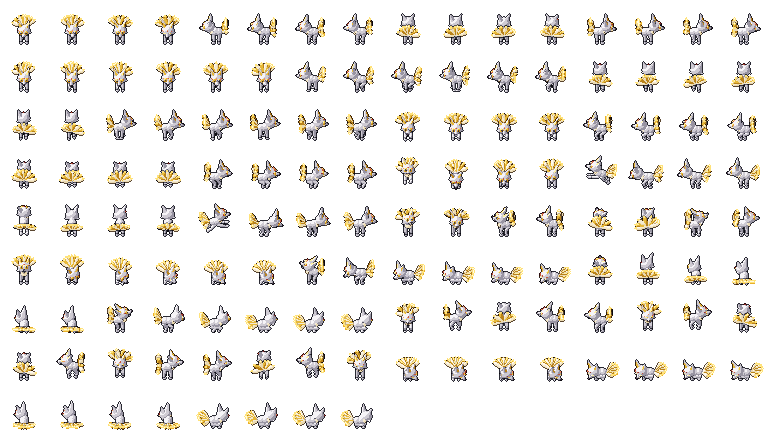
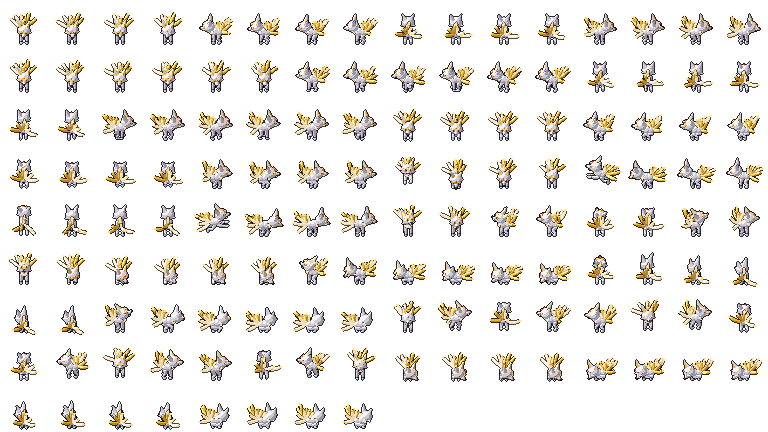
Toán tu tiên: Cửu Vĩ Hồ - chín đuôi xòe riêng từng chiếc khi nhìn nghiêng, xòe công phía sau, chân gập khuỷu

diff --git a/art/src/beasts_b/cuu_vi_ho.py b/art/src/beasts_b/cuu_vi_ho.py
@@ -18,22 +18,26 @@ from mathutils import Vector
 from common import (S, att, aim, ball, cute_eyes, eye_mats, eyes_bone, finish, glow, hexc, mat, merge,
                     quad_armature, quad_extra_poses, quad_poses, set_ramp, skin, tube, use_collection)
 
-N_TAILS = 9
-FAN = [-92 + 184 * k / (N_TAILS - 1) for k in range(N_TAILS)]     # degrees from straight up
+# (elevation above the back line, sideways angle, length): a three-dimensional fan. In profile
+# the elevations spread the tips from ~20 to ~110 degrees; from the front the low tails reach
+# far out to the sides and the high ones stay short behind the head (a peacock spread).
+TAILS = [(12, -62, 0.46), (22, 62, 0.43), (37, -42, 0.42), (48, 42, 0.45), (62, -26, 0.37),
+         (73, 26, 0.34), (87, -12, 0.30), (99, 12, 0.31), (115, 0, 0.26)]
+N_TAILS = len(TAILS)
 BASE = Vector((0, 0.11, 0.33))
 
 
-def tail_points(a_deg):
-    """Base, knee, end of the fluffy part and the glowing tip of a tail fanned at a_deg."""
-    a = math.radians(a_deg)
-    f = Vector((math.sin(a), 0, math.cos(a)))
-    d1 = (0.3 * f + Vector((0, 0.85, 0.42))).normalized()      # all leave the rump back-up as one bundle
-    d2 = (0.9 * f + Vector((0, 0.25, 0.3))).normalized()      # then open into a sunburst behind the head
-    d3 = (0.85 * f + Vector((0, 0.05, 0.5))).normalized()     # and the tips curl up
-    p1 = BASE + d1 * 0.12
-    p2 = p1 + d2 * 0.22
-    p3 = p2 + d3 * 0.10
-    return BASE.copy(), p1, p2, p3
+def tail_points(e_deg, phi_deg, length, n=6):
+    """Points along one tapered brush: it leaves the rump flatter and curls up toward its
+    own tip (elevation -14 -> +12 degrees along it), opening sideways as it goes."""
+    pts = [BASE.copy()]
+    for k in range(1, n):
+        t = k / (n - 1)
+        e = math.radians(e_deg - 14 + 26 * t)
+        f = math.radians(phi_deg * (0.7 + 0.3 * t))
+        d = Vector((math.cos(e) * math.sin(f), math.cos(e) * math.cos(f), math.sin(e)))
+        pts.append(pts[-1] + d * length / (n - 1))
+    return pts
 
 
 def build():
@@ -56,10 +60,10 @@ def build():
          "tail": ((0.11, 0.33), (0.18, 0.40), (0.24, 0.46))}
     extra = [eyes_bone(HY - 0.1, HZ + 0.02)]
     pts = {}
-    for k, a in enumerate(FAN):
-        p0, p1, p2, p3 = tail_points(a)
-        pts[k] = (p0, p1, p2, p3)
-        extra += [(f"t{k}a", tuple(p0), tuple(p1), "pelvis"), (f"t{k}b", tuple(p1), tuple(p2), f"t{k}a")]
+    for k, (e, f, ln) in enumerate(TAILS):
+        q = tail_points(e, f, ln)
+        pts[k] = q
+        extra += [(f"t{k}a", tuple(q[0]), tuple(q[2]), "pelvis"), (f"t{k}b", tuple(q[2]), tuple(q[5]), f"t{k}a")]
     arm = quad_armature("cuu_vi_ho", P, extra=extra)
 
     att(arm, "chest", ball("cv_chest", (0.105, 0.12, 0.10), (0, -0.03, 0.34), fur),
@@ -83,18 +87,22 @@ def build():
     for side, sx in (("l", 1), ("r", -1)):
         for leg, y in (("f", P["yf"]), ("b", P["yb"])):
             x = sx * P["x"]
-            att(arm, f"{leg}{side}1", aim(f"cv_{leg}{side}up", fur, (x, y, 0.29), (x, y, 0.15), 0.042 if leg == "b" else 0.036, 0.028, seg=8))
-            att(arm, f"{leg}{side}2", aim(f"cv_{leg}{side}lo", fur, (x, y, 0.16), (x, y, 0.07), 0.024, 0.022, seg=8),
-                aim(f"cv_{leg}{side}sock", sock, (x, y, 0.08), (x, y, 0.03), 0.025, 0.024, seg=8))
+            # not straight columns: the hind knee points forward and the hock back, the
+            # foreleg has a soft wrist
+            kn, hk = (-0.03, 0.028) if leg == "b" else (0.008, -0.006)
+            att(arm, f"{leg}{side}1", aim(f"cv_{leg}{side}up", fur, (x, y, 0.29), (x, y + kn, 0.15),
+                                        0.046 if leg == "b" else 0.036, 0.028, seg=8))
+            att(arm, f"{leg}{side}2", aim(f"cv_{leg}{side}lo", fur, (x, y + kn, 0.156), (x, y + hk, 0.085), 0.026, 0.022, seg=8),
+                aim(f"cv_{leg}{side}sock", sock, (x, y + hk, 0.09), (x, y, 0.03), 0.024, 0.023, seg=8))
             att(arm, f"{leg}{side}3", ball(f"cv_{leg}{side}paw", (0.03, 0.04, 0.024), (x, y - 0.008, 0.022), sock, seg=8, rings=5))
     # the nine tails
     for k in range(N_TAILS):
-        p0, p1, p2, p3 = pts[k]
+        q = pts[k]
         m = tails[k % 2]
-        body = tube(f"cv_tail{k}", [p0, p0.lerp(p1, 0.5), p1, p1.lerp(p2, 0.5), p2, p2.lerp(p3, 0.4)],
-                    [0.02, 0.03, 0.04, 0.05, 0.046, 0.04], m, seg=10)
+        body = tube(f"cv_tail{k}", q, [0.014, 0.024, 0.032, 0.037, 0.034, 0.027], m, seg=10)
         skin(body, arm, [f"t{k}a", f"t{k}b"], power=3.0)
-        att(arm, f"t{k}b", aim(f"cv_tailtip{k}", tip, tuple(p2.lerp(p3, 0.3)), tuple(p3), 0.04, 0.0, seg=8))
+        d = (q[5] - q[4]).normalized()
+        att(arm, f"t{k}b", aim(f"cv_tailtip{k}", tip, tuple(q[5] - d * 0.03), tuple(q[5] + d * 0.06), 0.03, 0.0, seg=8))
 
     # ------------------------------------------------------------------ poses
     A = {"stride": 0.03, "lift": 0.045, "hop": 0.06, "crouch": 0.06, "drop": 0.14, "lunge": 0.02}
@@ -106,24 +114,25 @@ def build():
         with its neighbours, the tip a beat behind the base; `spread` opens / closes the
         fan, `lift` tips the whole fan back (-) or forward (+)."""
         out = {}
-        for k, a in enumerate(FAN):
+        for k, (e, f, _) in enumerate(TAILS):
             ph = TAU_K * k
-            th = (spread - 1.0) * a + amp * S(i * speed, n, ph) + base
-            out[f"t{k}a"] = {"r": (lift, th, 0)}
-            out[f"t{k}b"] = {"r": (lift * 0.4, lag * S(i * speed, n, ph - 1.2), 0)}
+            sw = S(i * speed, n, ph)
+            # sideways sway about z (spread opens/closes by azimuth), a smaller up-down bob
+            out[f"t{k}a"] = {"r": (lift + amp * 0.6 * S(i * speed, n, ph + 1.3), 0, -(spread - 1.0) * f + amp * sw + base)}
+            out[f"t{k}b"] = {"r": (lift * 0.4, 0, lag * S(i * speed, n, ph - 1.2))}
         return out
 
     TAU_K = 0.75
     deco = {"idle": dict(amp=6, lag=9), "walk": dict(amp=8, lag=12, lift=-6),
             "windup": dict(amp=3, lag=6, spread=1.06, lift=8), "attack": dict(amp=4, lag=14, spread=0.9, lift=-20),
             "hit": dict(amp=10, lag=16, spread=1.08, lift=10), "die": dict(amp=2, lag=4),
-            "happy": dict(amp=14, lag=18, spread=1.06), "sleep": dict(amp=2, lag=3, spread=0.75, lift=-40)}
+            "happy": dict(amp=14, lag=18, spread=1.06), "sleep": dict(amp=2, lag=3, spread=0.8, lift=6)}
     for clip_name, frames in poses.items():
         n = len(frames)
         for i, p in enumerate(frames):
             kw = dict(deco[clip_name])
             if clip_name == "die":       # the fan sinks as it faints
-                kw["lift"] = -35 * min(1.0, i / 3)
+                kw["lift"] = -14 * min(1.0, i / 3)
                 kw["spread"] = 1.0 - 0.15 * min(1.0, i / 3)
             p.update(fan(i, n, **kw))
     for i, p in enumerate(poses["idle"]):

diff --git a/art/src/beasts_b/README.md b/art/src/beasts_b/README.md
@@ -56,7 +56,7 @@ loop). Each sprite frame is one key (rig.clip), loops repeat their first pose.
 | File | What |
 |---|---|
 | `build.py` | venv entry point: one headless Blender per beast (at most 2 at once), then QC, contact sheets, overview, line-up, zooms |
-| `scene.py` | inside Blender: build one beast, save `art/blender/beasts_b/<id>.blend`, render through the kit. `--clips a,b` renders a look-round subset into `art/render/beasts_b/wip/` (never the game folder); env `BEASTS_B_HIDE=name,name` drops parts in such a WIP render (debugging) |
+| `scene.py` | inside Blender: build one beast, save `art/blender/beasts_b/<id>.blend`, render through the kit. `--clips a,b` renders a look-round subset into `art/render/beasts_b/wip/` (never the game folder); in such a WIP render env `BEASTS_B_HIDE=name,name` drops parts and `BEASTS_B_BIG=1` renders at 2x resolution (debugging) |
 | `common.py` | imports the monsters_a helpers read-only (`rig.py`, `beasts.py`, `quadrupeds.py`); adds `hexc`/`mat`/`glow`/`set_ramp`, `finish` (the eight clips), and `quad_poses` / `quad_extra_poses`: copies of `quad_clips` / `extra_quad_clips` that return the pose lists so a beast can decorate them |
 | `ngoc_tho.py` … `kim_si_dieu.py` | one builder per beast (`build()` returns the armature) |
 | `previews.py` | `art/preview/beasts_b.png`, `beasts_b_lineup.png`, `beasts_b_zoom_<id>.png`; `previews.py zoom <id>` (5× key frames), `previews.py close <id>` (8× faces into art/render), `previews.py wip <id>` |
@@ -76,9 +76,9 @@ blender -b art/blender/beasts_b/<id>.blend --python art/src/monsters_a/fitcheck.
 |---|---|---|---|---|---|
 | `ngoc_tho` | Ngọc Thố | sitting rabbit: hips (squash/stretch), chest, head, two-bone ears, skinned front legs between shoulder and planted paw bones, root feet | white fur, dark shiny eyes, pink nose and ears, glowing jade ear tips, gold crescent mark on the brow, red cord with a jade bead | rears up on the hind feet, paws up like a boxer / hop-lunge and double paw strike | line ahead, ~1.5 tiles |
 | `tam_bao_thu` | Tầm Bảo Thử | upright mouse: hips, chest, head, round ears, arms (the gem rides the left arm), root feet, three-bone skinned tail | warm chestnut fur, coin-gold belly, round pink ears, white whiskers, buck teeth, glowing spirit gem hugged to the belly, red treasure pouch with a gold tie, pink curling tail | hoists the gem above its head / bonks forward, the gem flaring on the hit | line ahead, ~1 tile |
-| `kim_thiem` | Bích Nhãn Kim Thiềm | squat toad tilted nose-up 12° on straight front legs: body, head, jaw, throat sac, eyes, coin bone, skinned front legs to planted hands, ONE hind leg in the middle | deep amber-gold warty skin with bright gold warts, cream belly and throat, glowing jade eyes with slit pupils on top domes, a wide smile, a glowing square-holed coin in its lips, three coins down its back | puffs up, throat sac swelling / spits the coin straight ahead (a new one appears) | line ahead, ~2 tiles (coin projectile) |
+| `kim_thiem` | Bích Nhãn Kim Thiềm | (rebuilt for the side view after the lead's review) wide low body, a blunt wedge head with the eye domes bulging above its line, jaw, throat sac, coin bone; short front legs skinned to planted hands; two folded hind legs on the flanks (big thigh outside the body, shin and long foot skinned between a thigh bone and a planted foot bone, so they unfold in the hop) | bright gold skin with dark-gold warts, warm-brown legs, a pale belly band and throat, a dark mouth band round the head, glowing jade eyes with slit pupils on top domes, a wide smile, a glowing square-holed coin in its lips, three coins down its back | puffs up, throat sac swelling / spits the coin straight ahead (a new one appears) | line ahead, ~2 tiles (coin projectile) |
 | `bach_ho_con` | Bạch Hổ Con | shared quadruped rig (IK legs, level paws), eyes bone | chunky white cub, round head with cheek ruffs, dark-backed round ears, blue eyes, pink nose, glowing ice brow diamond, tapered back stripes, brow strokes, leg stripes, ringed tail with a dark tip, big paws | crouch with a cat's butt-wiggle / pounce-bite | line ahead, ~2 tiles |
-| `cuu_vi_ho` | Cửu Vĩ Hồ | shared quadruped rig + nine two-bone skinned tails fanned ±92° | slender white fox, gold almond eyes, red kitsune liner and brow mark, tall ears with gold insides; nine tails alternating cream and gold with glowing gold tips: a sunburst behind the head from the front, a rising plume in profile; tails sway out of phase in every clip, tips lagging | crouch, fan flaring / pounce-bite with the fan swept back | cone ahead, ~60°, 2 tiles |
+| `cuu_vi_ho` | Cửu Vĩ Hồ | shared quadruped rig (hind legs modelled with a forward knee and a back-pointing hock) + nine two-bone skinned tails in a three-dimensional fan: each has its own elevation above the back line (12°→115°), sideways angle and length | slender white fox, gold almond eyes, red kitsune liner and brow mark, tall ears with gold insides; nine slim tapered tails alternating cream and gold, each curling to a pale-gold glowing tip: separate tails fanned over the back in profile, a peacock spread behind the body from the front; tails sway out of phase in every clip, tips lagging | crouch, fan flaring / pounce-bite with the fan swept back | cone ahead, ~60°, 2 tiles |
 | `kim_si_dieu` | Kim Sí Điểu | bird biped (like bach_hac): body, neck, head, crest, two-bone wings (covert pad + five primaries on the hand), tail fan, two-bone legs | gold raptor chick with a cream chest, hooked steel-blue beak, dark eyes under a stern brow, swept red crest; deep-gold and gold primaries and tail feathers with flame-bright glowing tips | wings flung up in a great V, crest raised / forward wing sweep and lunging peck | cone ahead, ~60°, 1.5 tiles |
 
 ## Look rounds (what was wrong before each change)
@@ -121,6 +121,20 @@ Judged at 5× (`beasts_b_zoom_<id>.png`) and 8× (`previews.py close`), next to 
 4. The tilt pushed the haunch back (walk/up, windup/up sank). → root offset 1.2 cm forward,
    hind foot only skims in the hop, smaller splat.
 
+Lead review after round 4: in profile it is a lumpy gold nugget with a green tab, no head,
+legs or mouth. Rebuilt for the side view:
+5. Wide low body, wedge head, eye domes above the head line, irises turned out, two folded
+   hind legs on the flanks (the single centred hind leg never read from the side, so it now
+   has four legs, which the brief allowed). Still a bun: the hind legs and mouth line sat
+   inside the body/head ellipsoids.
+6. → narrower body so the thigh sits outside on the flank; the mouth became a dark band
+   round the head at lip height. Still a nugget: the dark-gold leg's lit tone equals the
+   body's shadow tone. A 2x-resolution WIP render (`BEASTS_B_BIG=1`) showed the shapes were
+   right and the problem was value.
+7. → bright gold skin, dark-gold warts, legs on the warm-brown wood ramp, a pale belly band
+   that shows under the flank; foot and shin tucked in, belly shortened and jaw opened less
+   for the standing rule (up and down facings).
+
 ### Bạch Hổ Con
 1. Evenly spaced vertical stripes read as a zebra / ribcage; a big dark "eye" smear on the
    side of the head in profile; pale ice-glow irises vanished on white fur; long thin legs (a
@@ -145,6 +159,17 @@ Judged at 5× (`beasts_b_zoom_<id>.png`) and 8× (`previews.py close`), next to 
 4. Face too small to read from the front. → bigger head, eyes, ears and kitsune marks; fan
    centre lowered.
 
+Lead review after round 4: in profile the nine tails read as ONE gold feather duster on the
+rump, from the front as a gold hat; legs four straight columns.
+5. → the fan became three-dimensional: each tail has its own elevation (spread over the back
+   line in profile), sideways angle (low tails reach far out to the sides from the front) and
+   length; each tail curls toward its own tip. First render: separate tips but fat short tails
+   clumped into a spiky crown; die/sleep drooped the fan off the frame in the up facing.
+6. → tails slimmer (about 2.8 px) and 15 % longer, elevations 12°→115°, less droop in die and
+   sleep: six to seven distinct tips with dark gaps in profile.
+7. Central tails still towered over the head from the front. → shorter central tails; hind
+   legs given a forward knee and a back-pointing hock, forelegs a soft wrist.
+
 ### Kim Sí Điểu
 1. A yellow chick / chocobo with a rooster comb: folded wings hidden in an egg body, flame tips
    invisible on gold, a one-pixel beak, die clipped. → longer primaries crossing past the tail,
@@ -158,15 +183,16 @@ Judged at 5× (`beasts_b_zoom_<id>.png`) and 8× (`previews.py close`), next to 
 
 ## Still weak (honest)
 
-- **Kim Thiềm** is small (about the size of Huyền Quy; a 1.10-1.15 scale was tried after the
-  line-up and failed the standing rule in the up facing, so it stays 1.0) and its profile is a lumpy wedge; the
-  third leg reads only from behind / in the hop. The coin's square hole is a single dark pixel
-  at best; at 1× the coin reads as a bright glint.
+- **Kim Thiềm** is still the smallest beast (same size as before, as asked) and has four legs,
+  not the three of the legend. In profile it now reads as a crouching toad at 3×-5×. At 1× it
+  is about 19 px wide: the hind leg is a brown patch and the mouth line one dark row. The
+  coin's square hole is a single dark pixel at best.
 - **Tầm Bảo Thử** in profile: the far ear still shows as a short spike above the head and the
   snout is small; the front view is the strong one.
 - **Kim Sí Điểu** keeps a little of the chick in its egg-shaped body from the front (a young
   roc, but the "proud" read comes mostly from the profile, beak and crest); its sleep and die
   silhouettes are blobby.
-- **Cửu Vĩ Hồ** legs are straight columns (the shared rig's stance); from behind the fan covers
-  most of the body.
+- **Cửu Vĩ Hồ**: near the rump the nine tails still overlap. The separation shows in the
+  outer two-thirds, and in profile the near and far tail of a pair can line up. The hock bend
+  is small at 48 px.
 - Faces are 3-4 px features: they read at 3× and up; at 1× the eyes are 1-2 px like the first six.
